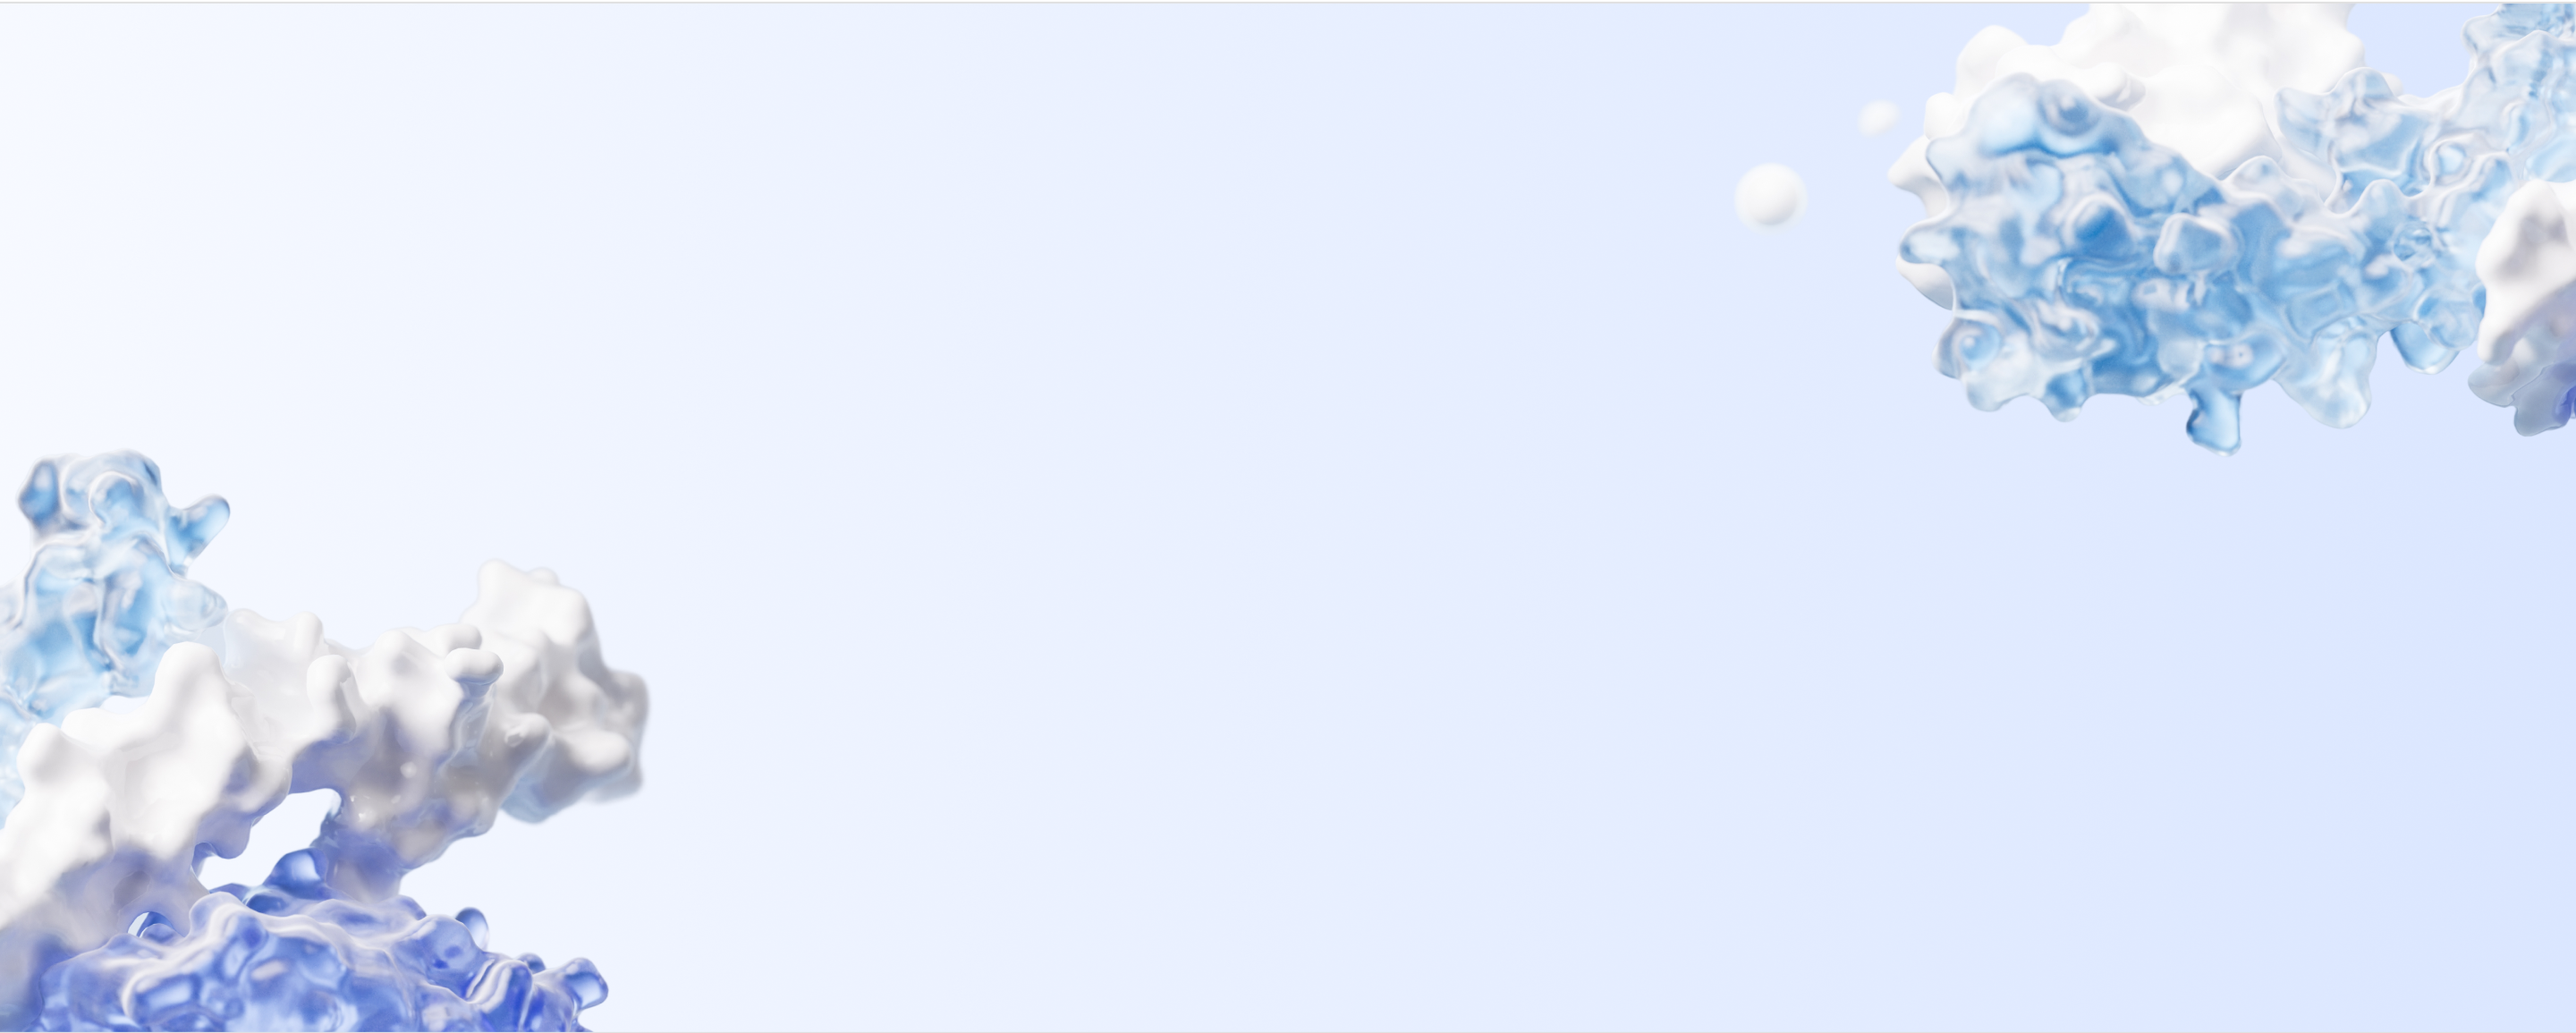
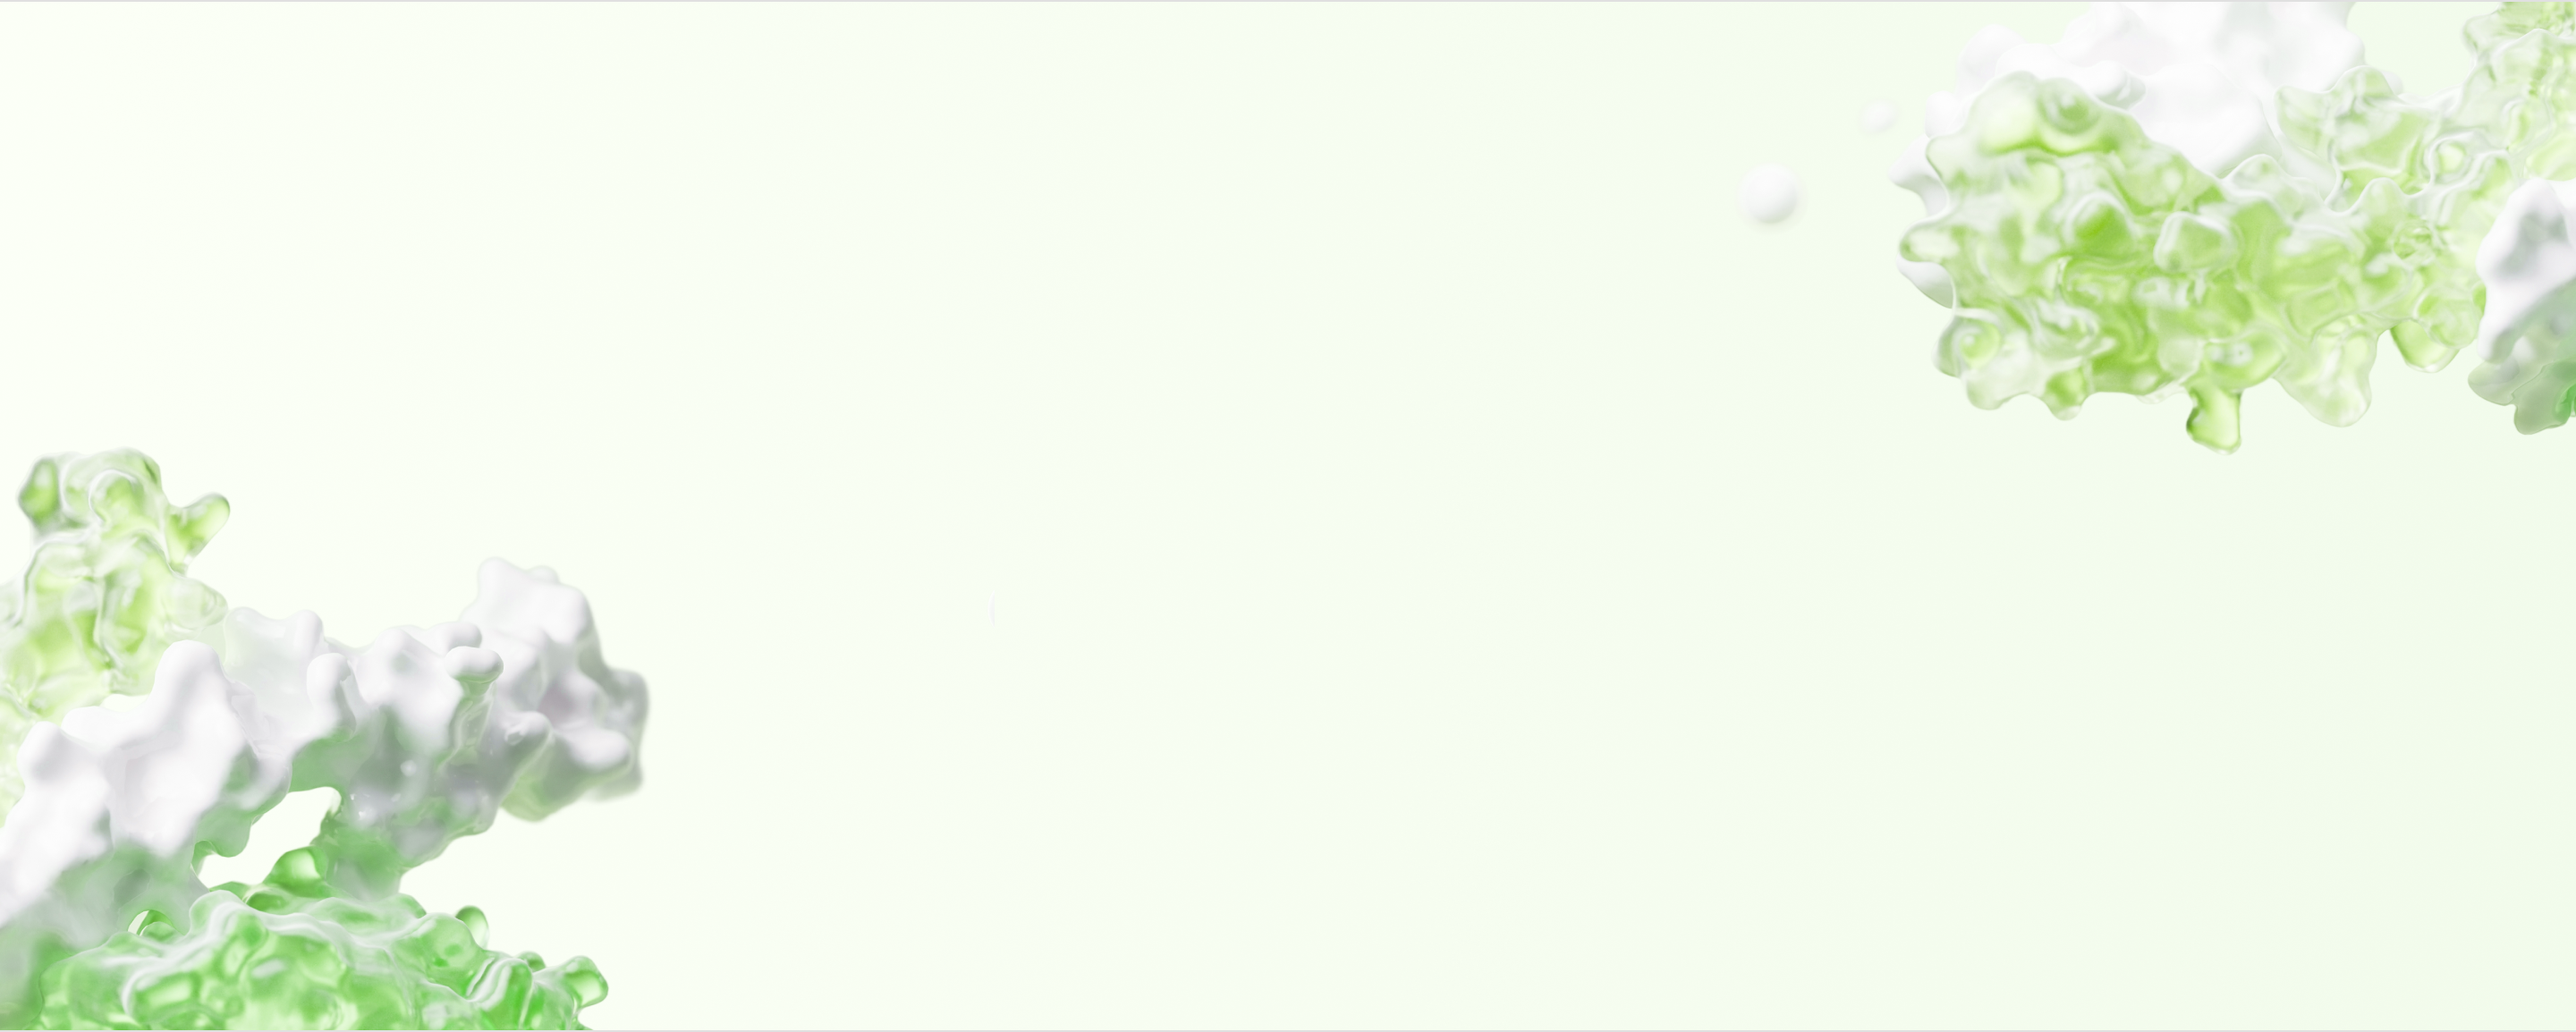
修改图片，改为绿色风格

diff --git a/src/pages/networking-services/infiniband-networking/index.tsx b/src/pages/networking-services/infiniband-networking/index.tsx
@@ -19,7 +19,7 @@ export default function NetworkingServices() {
                 <title>Canopy Wave | InfiniBand Networking</title>
                 {/* <link rel="preload" href="/solutions-banner.svg" as="image" type="image/svg+xml" /> */}
             </Head>
-            <div className="w-full h-[490px] relative mt-[84px] bg-gradient-to-r from-[#e7f8e2] via-[#eaf1f4] to-[#eaf1f4]">
+            <div className="w-full h-[490px] relative mt-[84px] bg-[#e7f8e2]">
                 <div className="max-w-7xl mx-auto px-4 sm:px-6 lg:px-8 py-6 lg:py-8 flex flex-col lg:flex-row items-center justify-between gap-6 lg:gap-0 h-full">
                     <div className="w-full lg:w-1/2 text-center lg:text-left z-10">
                         <h1 className="text-5xl sm:text-6xl font-black text-[#80B224] text-shadow-lg mb-6">
@@ -38,13 +38,13 @@ export default function NetworkingServices() {
                         </div>
                     </div>
                     <div className="absolute right-0 top-0 w-1/2 h-full lg:block hidden z-10">
-                        <SlideUp>
+                    <SlideUp>
                             <div
                                 className="w-full h-[490px] bg-cover bg-left bg-no-repeat"
                                 style={{
-                                    backgroundImage: "url('/networking/infiniband-networking/Data-Centers-Solution-02.jpg')",
-                                    maskImage: "linear-gradient(to right, transparent 0%, rgba(0,0,0,0.6) 8%, rgba(0,0,0,1) 18%)",
-                                    WebkitMaskImage: "linear-gradient(to right, transparent 0%, rgba(0,0,0,0.6) 8%, rgba(0,0,0,1) 18%)"
+                                    backgroundImage: "url('/networking/infiniband-networking/Data-Centers-Solution-02.png')",
+                                    maskImage: "linear-gradient(to right, transparent 0%, rgba(0,128,0,0.6) 8%, rgba(0,128,0,1) 18%)",
+                                    WebkitMaskImage: "linear-gradient(to right, transparent 0%, rgba(0,128,0,0.6) 8%, rgba(0,128,0,1) 18%)"
                                 }}
                             >
                             </div>

diff --git a/tailwind.config.js b/tailwind.config.js
@@ -7,9 +7,25 @@ module.exports = {
 	],
 	theme: {
 		extend: {
+			// fontSize: {
+			// 	// 'xs': ['0.625rem', { lineHeight: '1rem' }],      // 10px (原15px)
+			// 	'sm': ['0.75rem', { lineHeight: '1.25rem' }],    // 12px (原14px)
+			// 	'base': ['0.875rem', { lineHeight: '1.5rem' }],  // 14px (原16px)
+			// 	'l':['0.875rem', { lineHeight: '1.5rem' }],      // 14px (原16px)
+			// 	'md': ['1rem', { lineHeight: '1.5rem' }],        // 16px (原18px)
+			// 	'lg': ['1rem', { lineHeight: '1.75rem' }],       // 16px (原18px)
+			// 	'xl': ['1.125rem', { lineHeight: '1.75rem' }],   // 18px (原20px)
+			// 	'2xl': ['1.25rem', { lineHeight: '2rem' }],      // 20px (原24px)
+			// 	'3xl': ['1.625rem', { lineHeight: '2.25rem' }],  // 26px (原30px)
+			// 	'4xl': ['2rem', { lineHeight: '2.5rem' }],       // 32px (原36px)
+			// 	'5xl': ['2.8125rem', { lineHeight: '1' }],       // 45px (原48px)
+			// 	'6xl': ['3.25rem', { lineHeight: '1' }],         // 52px (原60px)
+			// 	'7xl': ['4rem', { lineHeight: '1' }],            // 64px (原72px)
+			// 	'8xl': ['5.5rem', { lineHeight: '1' }],          // 88px (原96px)
+			// 	'9xl': ['7.5rem', { lineHeight: '1' }],          // 120px (原128px)
+			// },
 			animation: {
 				'fade-in': 'fadeIn 0.5s ease-in-out',
-				// ... existing animations ...
 			},
 			keyframes: {
 				fadeIn: {

diff --git a/src/pages/resources/case-study/index.tsx b/src/pages/resources/case-study/index.tsx
@@ -40,10 +40,10 @@ export default function CaseStudyPage() {
                 <div className="absolute inset-0 z-10">
                     <div className="max-w-7xl mx-auto px-4 sm:px-6 lg:px-8 pt-44">
                         <SlideUp>
-                            <h1 className="text-4xl sm:text-5xl font-black text-gray-600 text-center">
+                            <h1 className="text-4xl sm:text-5xl font-black text-[#80B224] text-center">
                                 Accelerating Protein Engineering with Canopy Wave's GPUaaS
                             </h1>
-                            <p className="text-gray-600 text-xl mt-8 text-center">FoundryBioSciences Case Study</p>
+                            <p className="text-gray-600 text-l mt-8 text-center">FoundryBioSciences Case Study</p>
                         </SlideUp>
                     </div>
                 </div>

diff --git a/src/components/tutorials/TutorialLayout2.tsx b/src/components/tutorials/TutorialLayout2.tsx
@@ -124,7 +124,7 @@ const TutorialLayout2: React.FC<TutorialLayout2Props> = ({ tutorialPost }) => {
                 <div className="prose prose-lg max-w-none">
                     <section id="why" className="mb-12">
                         <SlideUp>
-                            <h2 className="text-xl font-bold mb-6">
+                            <h2 className="text-l font-bold mb-6">
                                 Ⅰ. Why Deploy and Run a Large Language Model Locally?
                             </h2>
                         </SlideUp>

diff --git a/src/components/SidebarLayout.tsx b/src/components/SidebarLayout.tsx
@@ -207,7 +207,7 @@ const SidebarLayout: React.FC<SidebarLayoutProps> = ({
         {/* Center Content Area - 变窄 */}
         <div className="flex-1 min-w-0 max-w-4xl">
           <div className="bg-white rounded-lg shadow-sm p-4 sm:p-8">
-            <h1 className="text-3xl sm:text-4xl font-black mb-8">{title}</h1>
+            <h1 className="text-2xl sm:text-3xl font-black mb-8">{title}</h1>
             {subtitle && (
               <p className="text-gray-600 text-xl mb-8">{subtitle}</p>
             )}

diff --git a/src/styles/global.css b/src/styles/global.css
@@ -53,7 +53,6 @@
   * {
     @apply border-border;
   }
-
   body {
     @apply bg-background text-foreground;
     /* 添加这行来强制使用亮色模式 */
